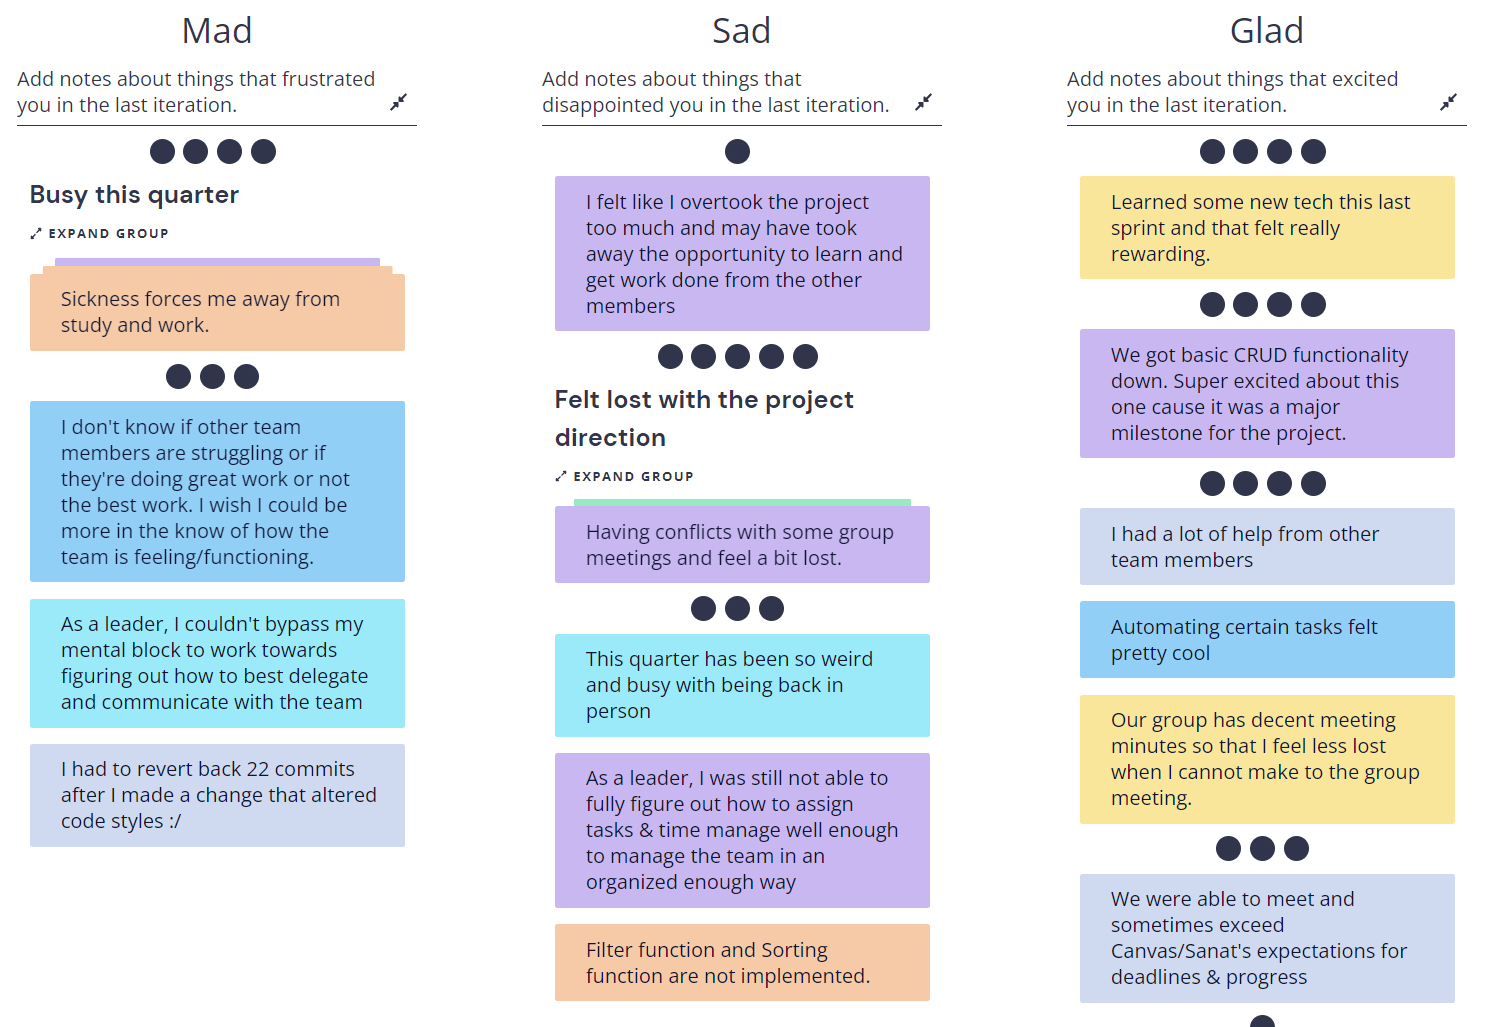
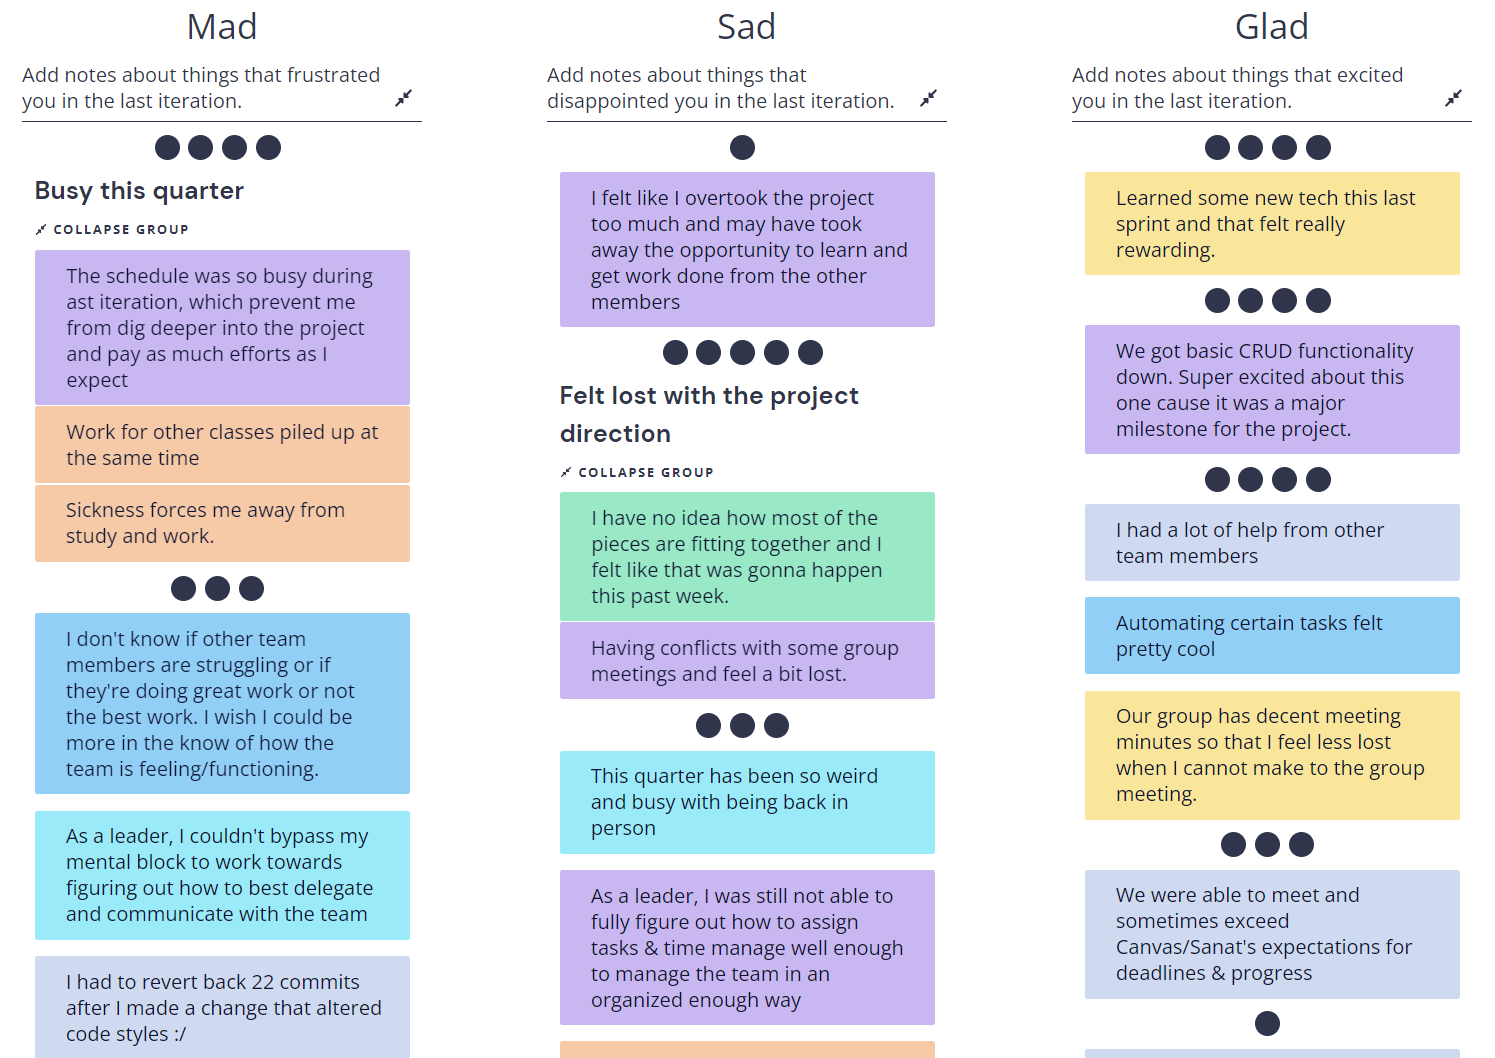
Update meeting notes

diff --git a/admin/meetings/120221-sprint-2+3-retrospective.md b/admin/meetings/120221-sprint-2+3-retrospective.md
@@ -26,20 +26,13 @@
 
 ### Previous Meeting
 
--   Sprint 1 Review: Updates on development phase
--   More resources & guidance
-    -   Canvas assignments
-    -   Priority tasks
-    -   Project milestones
--
+-   We will be going over sprint 2 & 3 progress.
 
 ### Current Meeting
 
--   We will be going over sprint 2 & 3 progress.
+-   Running Retrospectives activities.
 
 ### For next time!
-
--   Running Retrospectives activities.
 
 ---
 
@@ -53,9 +46,27 @@
 
 ---
 
-## Retrium
+## Retrium: Mad-Sad-Glad
 
-![asdf](../misc/mad-sad-glad-2+3.png)
+### Mad
+-	Many members felt overwhelmed and busy during the quarter
+-	Some members didn't know how to best keep up to date with the team's progress
+	-	**Takeaway:** Bring more focus & attention to standups, progress announcements, meeting notes
+
+### Sad
+-	Many members felt kinda lost with the overall project direction
+	-	Weren't sure how the work across the different teams would come together
+	-	Couldn't easily track the progress & success of the project
+	-	**Takeaway:** More inter-team meetings, more push on discussion/manager meeting attendance
+-	Hard to balance this quarter with new in-person obligations & situations
+
+### Glad
+-	Many members were able to learn some new cool stuff throughout the project
+-	Team members still felt trust with asking others for help & catching up
+-	We were able to make good progress at a good pace throughout the project
+
+
+![Board](../misc/mad-sad-glad-2+3.png)
 
 ---
 
@@ -68,6 +79,8 @@
 ## Decisions & Takeaways
 
 -   Looking good so far - make it through the last stretch!
+-   Retrospectively - faciliate even more communication & team-wide announcements
+    -   Synchronous availability would have made this much more easier!
 
 ---
 

diff --git a/admin/meetings/120221-sprint-2+3-review.md b/admin/meetings/120221-sprint-2+3-review.md
@@ -65,10 +65,13 @@
     -   Linting workflow
     -   JSDoc workflow
     -   Unit test workflow
+        -   Designing unit tests for `util.js`
+    -   Exploring other features like Prettier & HTML Validator
 
 ### Chris & Hanming
 
 -   Front-end
+    -   Home page recipe cards
     -   Grocery list structure
         -   List of ingredients
         -   Recipes to filter displayed ingredients
@@ -78,18 +81,37 @@
 
 ### Divneet
 
--   Back-end: Schema Documentation
+-   Back-end: Schema Documentation (`/specs/schema`)
     -   Research on schema.org & back-end structure
     -   Recipes schema
     -   Meal planner schema
     -   Grocery list schema
+
+### Julian
+
+- Front-end
+  - Helped inform further design & wireframe work
+  - Followed along learning about main front-end changes
+  - Worked on the meal planner
+  - Researching Google Calendar API
 
 ### Stephen & Xuan
 
 - Back-end: API Research & Integration
   - Researched CalorieNinjas and Spoonacular for important endpoints
   - Created documentation on these endpoints
-  - 
+  - Created an API script file to access these endpoints
+
+### Adory
+
+-	Overseeing progress across teams
+-	Pipeline: Vetting artifacts & workflows
+-	Implementing CRUD functionality
+-	Administration:
+	-	Meeting notes
+	-	Various artifacts
+	-	Enforcing repo structure & guidelines
+	-	GitHub Project/Issue tracking
 
 ---
 
@@ -101,7 +123,7 @@
 
 ## Decisions & Takeaways
 
--   Looking good so far - make it through the last stretch!
+-   Main functionality is complete - just make finishing touches and implementations!
 
 ---
 

diff --git a/admin/meetings/120121-manager-final.md b/admin/meetings/120121-manager-final.md
@@ -1,0 +1,60 @@
+# Final Updates & Decisions
+
+## Info
+
+### Time & Place
+
+-   Group 5
+-   Wednesday, December 01, 2021
+-   11:30am @ https://ucsd.zoom.us/my/sanatbhandarkar
+
+### Attendance
+
+-   [x] Adory
+-   [x] Hanming
+-   [ ] Steven
+-   [ ] Royce
+-   [ ] Divneet
+-   [ ] Julian
+-   [ ] Xuan
+-   [ ] Robert (Bobby)
+-   [ ] Sizhe (Chris)
+
+---
+
+## Agenda
+
+### Previous Meeting
+
+### Current Meeting
+
+-   Current updates
+-   Finishing up
+
+### For next time!
+
+---
+
+## Finishing up
+
+-	Wiki
+-	Worry about 2/3 add-on features
+	-	Speech recognition
+	-	Meal planner
+	-	Grocery list
+
+---
+
+## Additional Remarks
+
+### Remaining Questions / Concerns
+
+---
+
+## Decisions & Takeaways
+
+-   Looking good so far - make it through the last stretch!
+
+---
+
+Meeting finish time: 1:10pm (1 hr 40 min)
